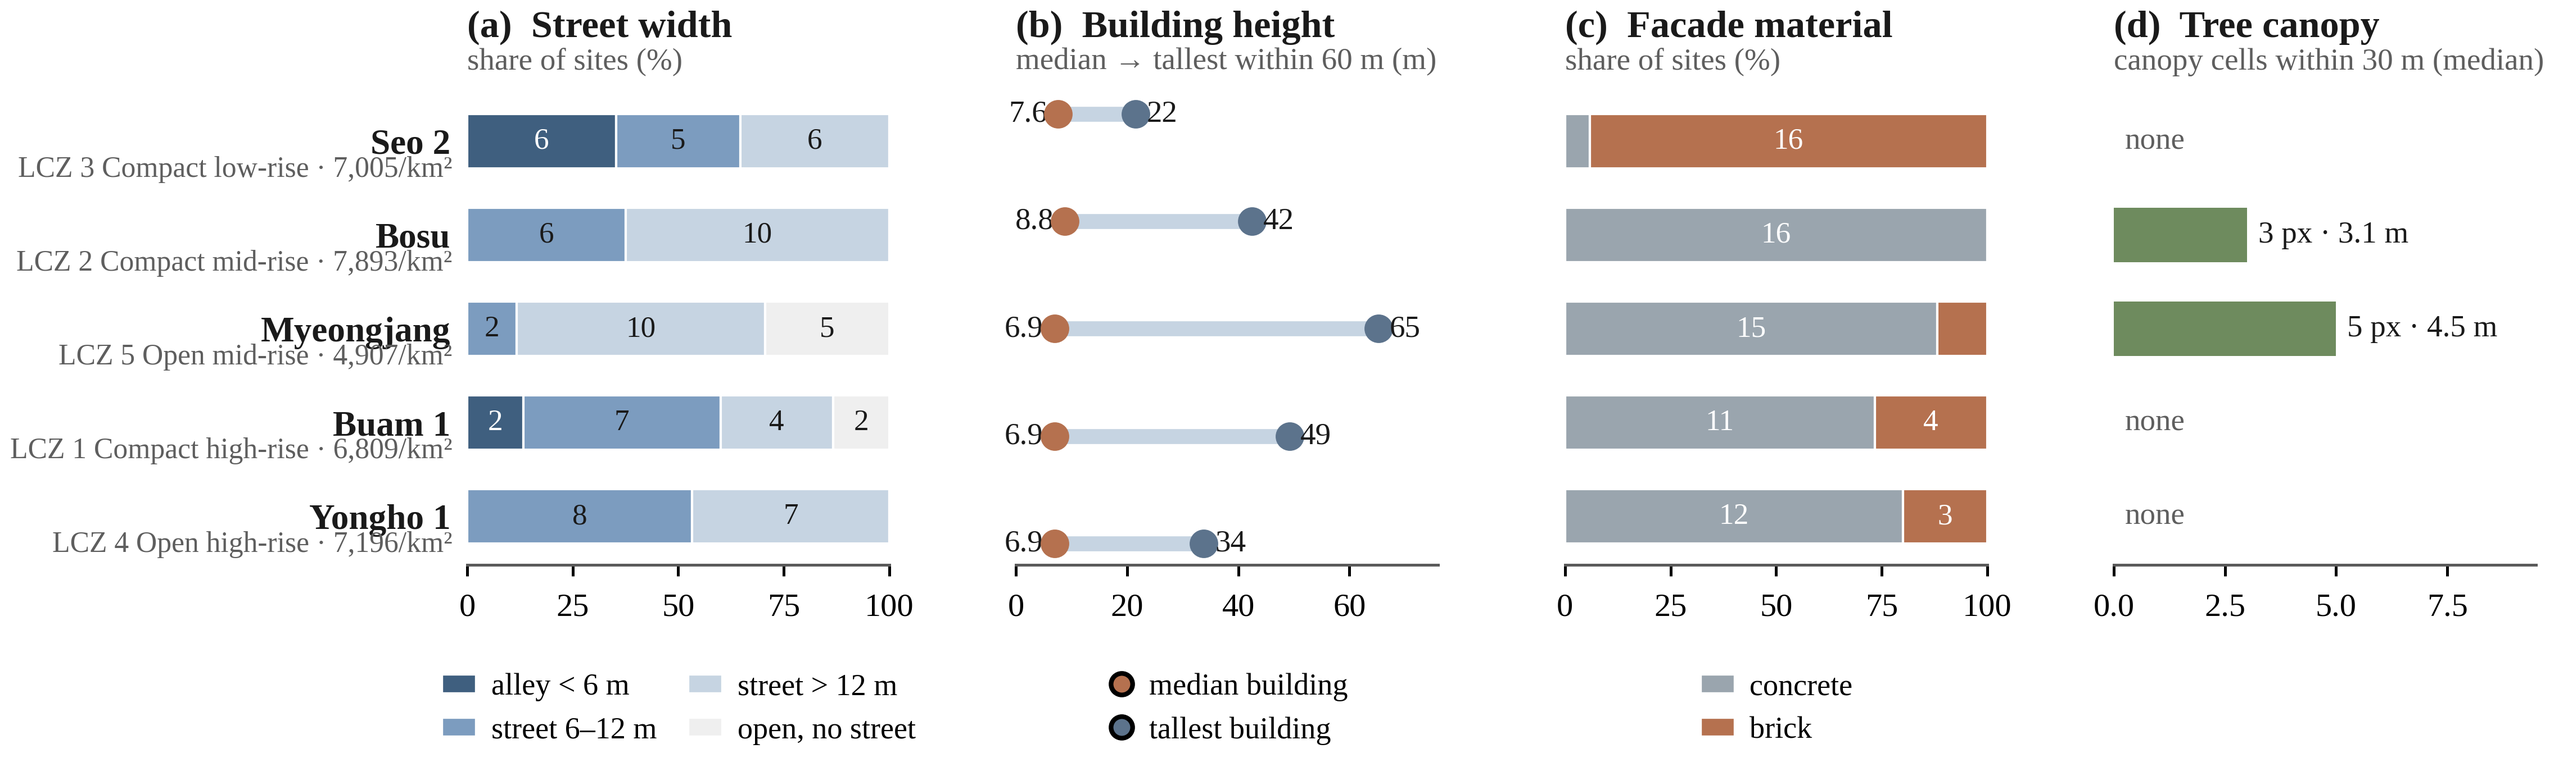
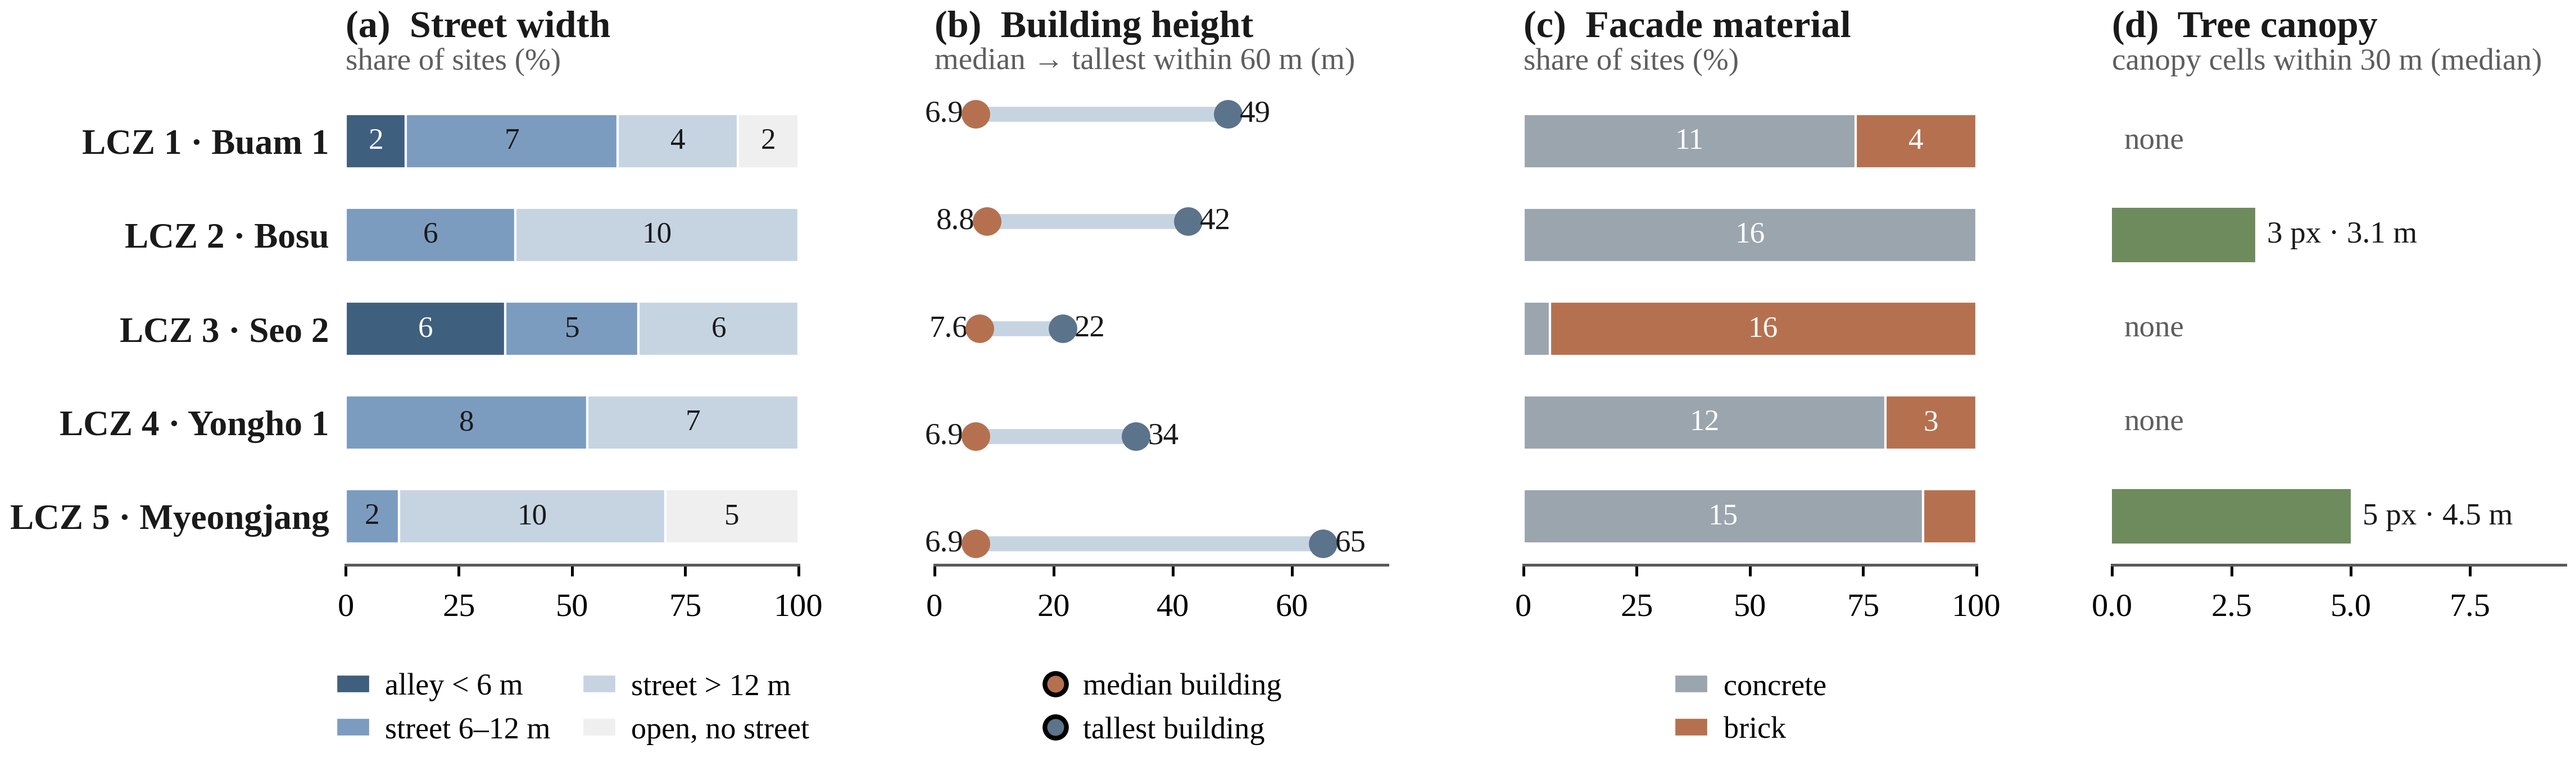
형태 그림: LCZ 1~5 순서로, 라벨 한 줄로 (겹침 해소)
이름 아래에 계층 이름과 노인밀도를 따로 찍으니 아랫줄 이름과 겹쳤다.
「LCZ 1 · Buam 1」 한 줄로 합치고, 계층 이름과 밀도는 표 1 에 맡긴다.

Claude-Session: https://claude.ai/code/session_01GrP2NtWVeABT9iQDzKN66Q

diff --git a/scripts/fig_form_bars.py b/scripts/fig_form_bars.py
@@ -26,12 +26,13 @@ DATA = sys.argv[1] if len(sys.argv) > 1 else "/mnt/user-data/uploads/climax_mvp/
 OUT = sys.argv[2] if len(sys.argv) > 2 else "/tmp/claude-0/fig4"
 INK, MUTED, RULE = "#1A1A1A", "#5E5E5E", "#5A5A5A"
 
-# 그림 4 와 같은 순서(1인가구 비율 내림차순)·같은 라벨
-ROWS = [("서제2동", "Seo 2",      "LCZ 3 Compact low-rise · 7,005/km²"),
-        ("보수동",  "Bosu",       "LCZ 2 Compact mid-rise · 7,893/km²"),
-        ("명장동",  "Myeongjang", "LCZ 5 Open mid-rise · 4,907/km²"),
-        ("부암제1동", "Buam 1",   "LCZ 1 Compact high-rise · 6,809/km²"),
-        ("용호제1동", "Yongho 1", "LCZ 4 Open high-rise · 7,196/km²")]
+# 2026-09-20: LCZ 1~5 순서로. 라벨은 한 줄로 합쳐 둔다 — 이름 아래에 설명을 따로
+# 찍으니 아랫줄 이름과 겹쳤다. 계층 이름(Compact low-rise 등)과 노인밀도는 표 1 에 있다.
+ROWS = [("부암제1동", "LCZ 1 · Buam 1"),
+        ("보수동",   "LCZ 2 · Bosu"),
+        ("서제2동",  "LCZ 3 · Seo 2"),
+        ("용호제1동", "LCZ 4 · Yongho 1"),
+        ("명장동",   "LCZ 5 · Myeongjang")]
 
 WCLS = {"보행골목(<6m)": 0, "혼합골목(6-12m)": 1, "큰길(12m+)": 2, "개방": 3}
 WCOL = ["#3F5F7F", "#7C9CBF", "#C6D4E2", "#EFEFEF"]
@@ -53,8 +54,8 @@ BLD = {"부암제1동": dict(floor=2, hmed=6.9, hmax=49.2, mat={"concrete": 11, 
 
 def load_width():
     w = {r["측정ID"]: r for r in csv.DictReader(open(f"{DATA}/tier3_width_80.csv", encoding="utf-8-sig"))}
-    out = {k: [0, 0, 0, 0] for k, _n, _s in ROWS}
-    n = {k: 0 for k, _n, _s in ROWS}
+    out = {k: [0, 0, 0, 0] for k, _n in ROWS}
+    n = {k: 0 for k, _n in ROWS}
     for r in csv.DictReader(open(f"{DATA}/tier3_engine_output_80_v7_photo.csv", encoding="utf-8-sig")):
         k = r["권역"]; n[k] += 1
         out[k][WCLS.get(w.get(r["측정ID"], {}).get("폭등급", ""), 3)] += 1
@@ -64,11 +65,8 @@ def load_width():
 def style(ax, title, sub, xlabel, xmax, first):
     ax.set_yticks(range(len(ROWS)))
     if first:
-        ax.set_yticklabels([f"{nm}" for _k, nm, _s in ROWS], fontsize=7.6,
+        ax.set_yticklabels([nm for _k, nm in ROWS], fontsize=7.6,
                            fontweight="bold", color=INK)
-        for i, (_k, _nm, sb) in enumerate(ROWS):
-            ax.text(-0.035, i + 0.30, sb, transform=ax.get_yaxis_transform(),
-                    ha="right", va="center", fontsize=6.2, color=MUTED)
     else:
         ax.set_yticklabels([""] * len(ROWS))
     ax.invert_yaxis(); ax.set_xlim(0, xmax)
@@ -87,12 +85,12 @@ def main():
     wc, n = load_width()
     y = list(range(len(ROWS)))
     fig, axs = plt.subplots(1, 4, figsize=(190 * MM, 66 * MM))
-    fig.subplots_adjust(left=0.175, right=0.995, top=0.775, bottom=0.235, wspace=0.30)
+    fig.subplots_adjust(left=0.115, right=0.995, top=0.775, bottom=0.235, wspace=0.30)
 
     # (a) 가로폭 구성
     left = [0.0] * len(ROWS)
     for j in range(4):
-        v = [100.0 * wc[k][j] / n[k] for k, _nm, _s in ROWS]
+        v = [100.0 * wc[k][j] / n[k] for k, _nm in ROWS]
         axs[0].barh(y, v, left=left, height=0.58, color=WCOL[j], edgecolor="white", lw=0.5)
         for i, x in enumerate(v):
             if x >= 11:
@@ -107,7 +105,7 @@ def main():
                   fontsize=6.5, handlelength=1.2, columnspacing=1.0, handletextpad=0.45)
 
     # (b) 건물 높이 — 중앙값 점에서 최댓값까지 선
-    for i, (k, _nm, _s) in enumerate(ROWS):
+    for i, (k, _nm) in enumerate(ROWS):
         b = BLD[k]
         axs[1].plot([b["hmed"], b["hmax"]], [i, i], color="#C6D4E2", lw=3.2,
                     solid_capstyle="round", zorder=2)
@@ -131,7 +129,7 @@ def main():
     left = [0.0] * len(ROWS)
     for mat in ("concrete", "brick"):
         v = []
-        for k, _nm, _s in ROWS:
+        for k, _nm in ROWS:
             tot = sum(BLD[k]["mat"].values())
             v.append(100.0 * BLD[k]["mat"].get(mat, 0) / tot)
         axs[2].barh(y, v, left=left, height=0.58, color=MCOL[mat], edgecolor="white", lw=0.5)
@@ -147,9 +145,9 @@ def main():
                   fontsize=6.5, handlelength=1.2, handletextpad=0.45)
 
     # (d) 수관
-    v = [BLD[k]["cnp"] for k, _nm, _s in ROWS]
+    v = [BLD[k]["cnp"] for k, _nm in ROWS]
     axs[3].barh(y, v, height=0.58, color="#6E8B5E", edgecolor="none")
-    for i, (k, _nm, _s) in enumerate(ROWS):
+    for i, (k, _nm) in enumerate(ROWS):
         b = BLD[k]
         axs[3].text(max(v[i], 0) + 0.25, i,
                     ("none" if b["cnp"] == 0 else f"{b['cnp']} px · {b['ch']:.1f} m"),
